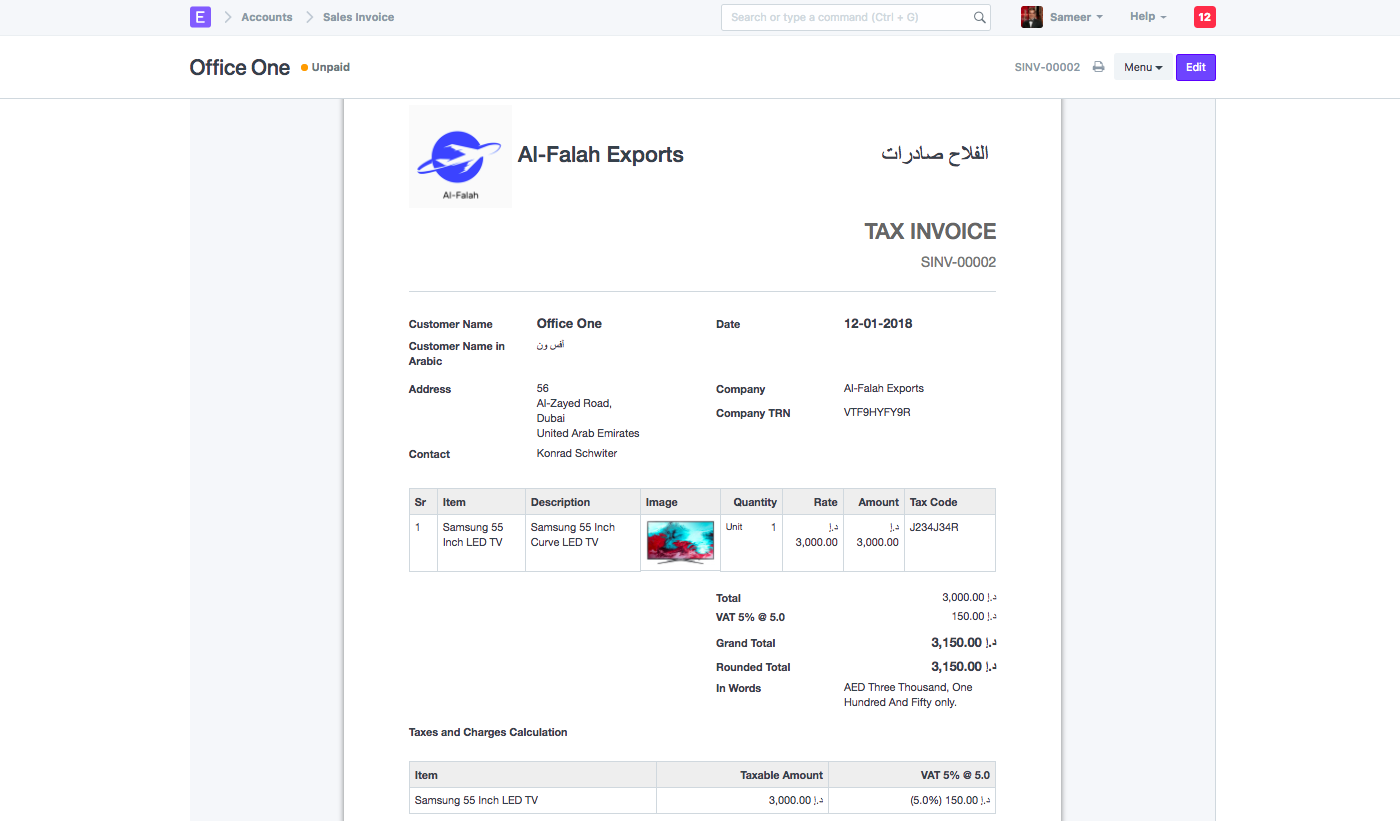
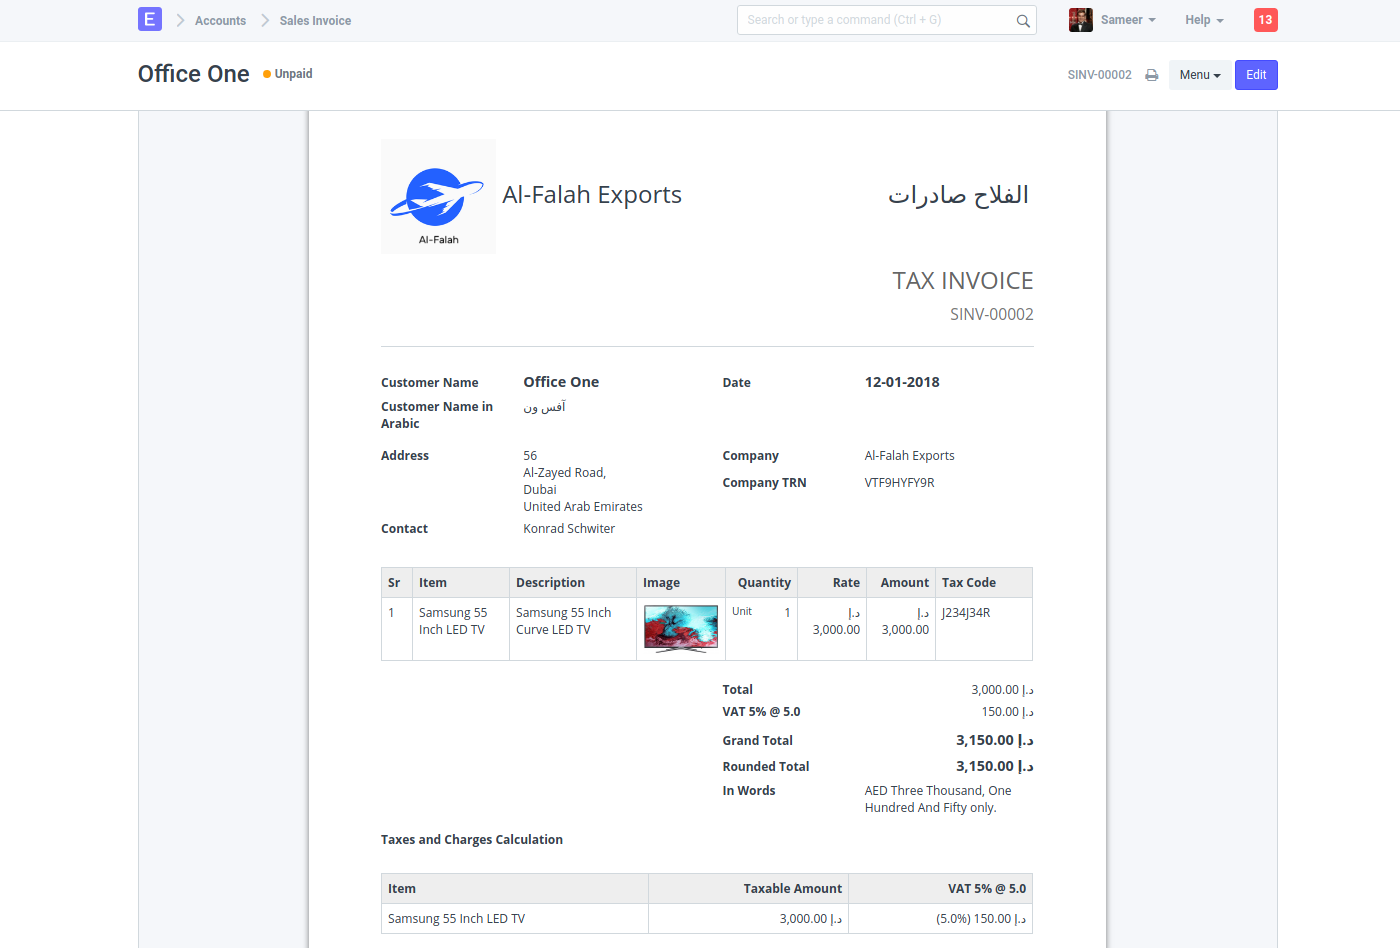
fixed image names, deleted extra images

diff --git a/erpnext_com/www/uae-ksa-vat.html b/erpnext_com/www/uae-ksa-vat.html
@@ -9,8 +9,8 @@
 
 {% block content %}
 	{{ hero("VAT Ready ERP",
-		"For UAE and Saudi Arabia Tax Requirement",
-		"/assets/erpnext_com/images/gcc-vat/hero.png", False) }}
+		"For UAE and Saudi Arabia Tax Requirements",
+		"/assets/erpnext_com/images/gcc-vat/hero-tax-invoice-vat.png", False) }}
 
 	{{ feature({
 			"title": "Chart of Accounts",
@@ -37,7 +37,7 @@
 	{{ feature({
 		"title": "Sales Invoice",
 		"desc": "Issue VAT-compliant Sales Invoice to your customers in Simplified and/or Detailed formats.",
-		"img": "/assets/erpnext_com/images/gcc-vat/detailed.png"
+		"img": "/assets/erpnext_com/images/gcc-vat/detailed-tax-invoice.png"
 		})
 	}}
 
